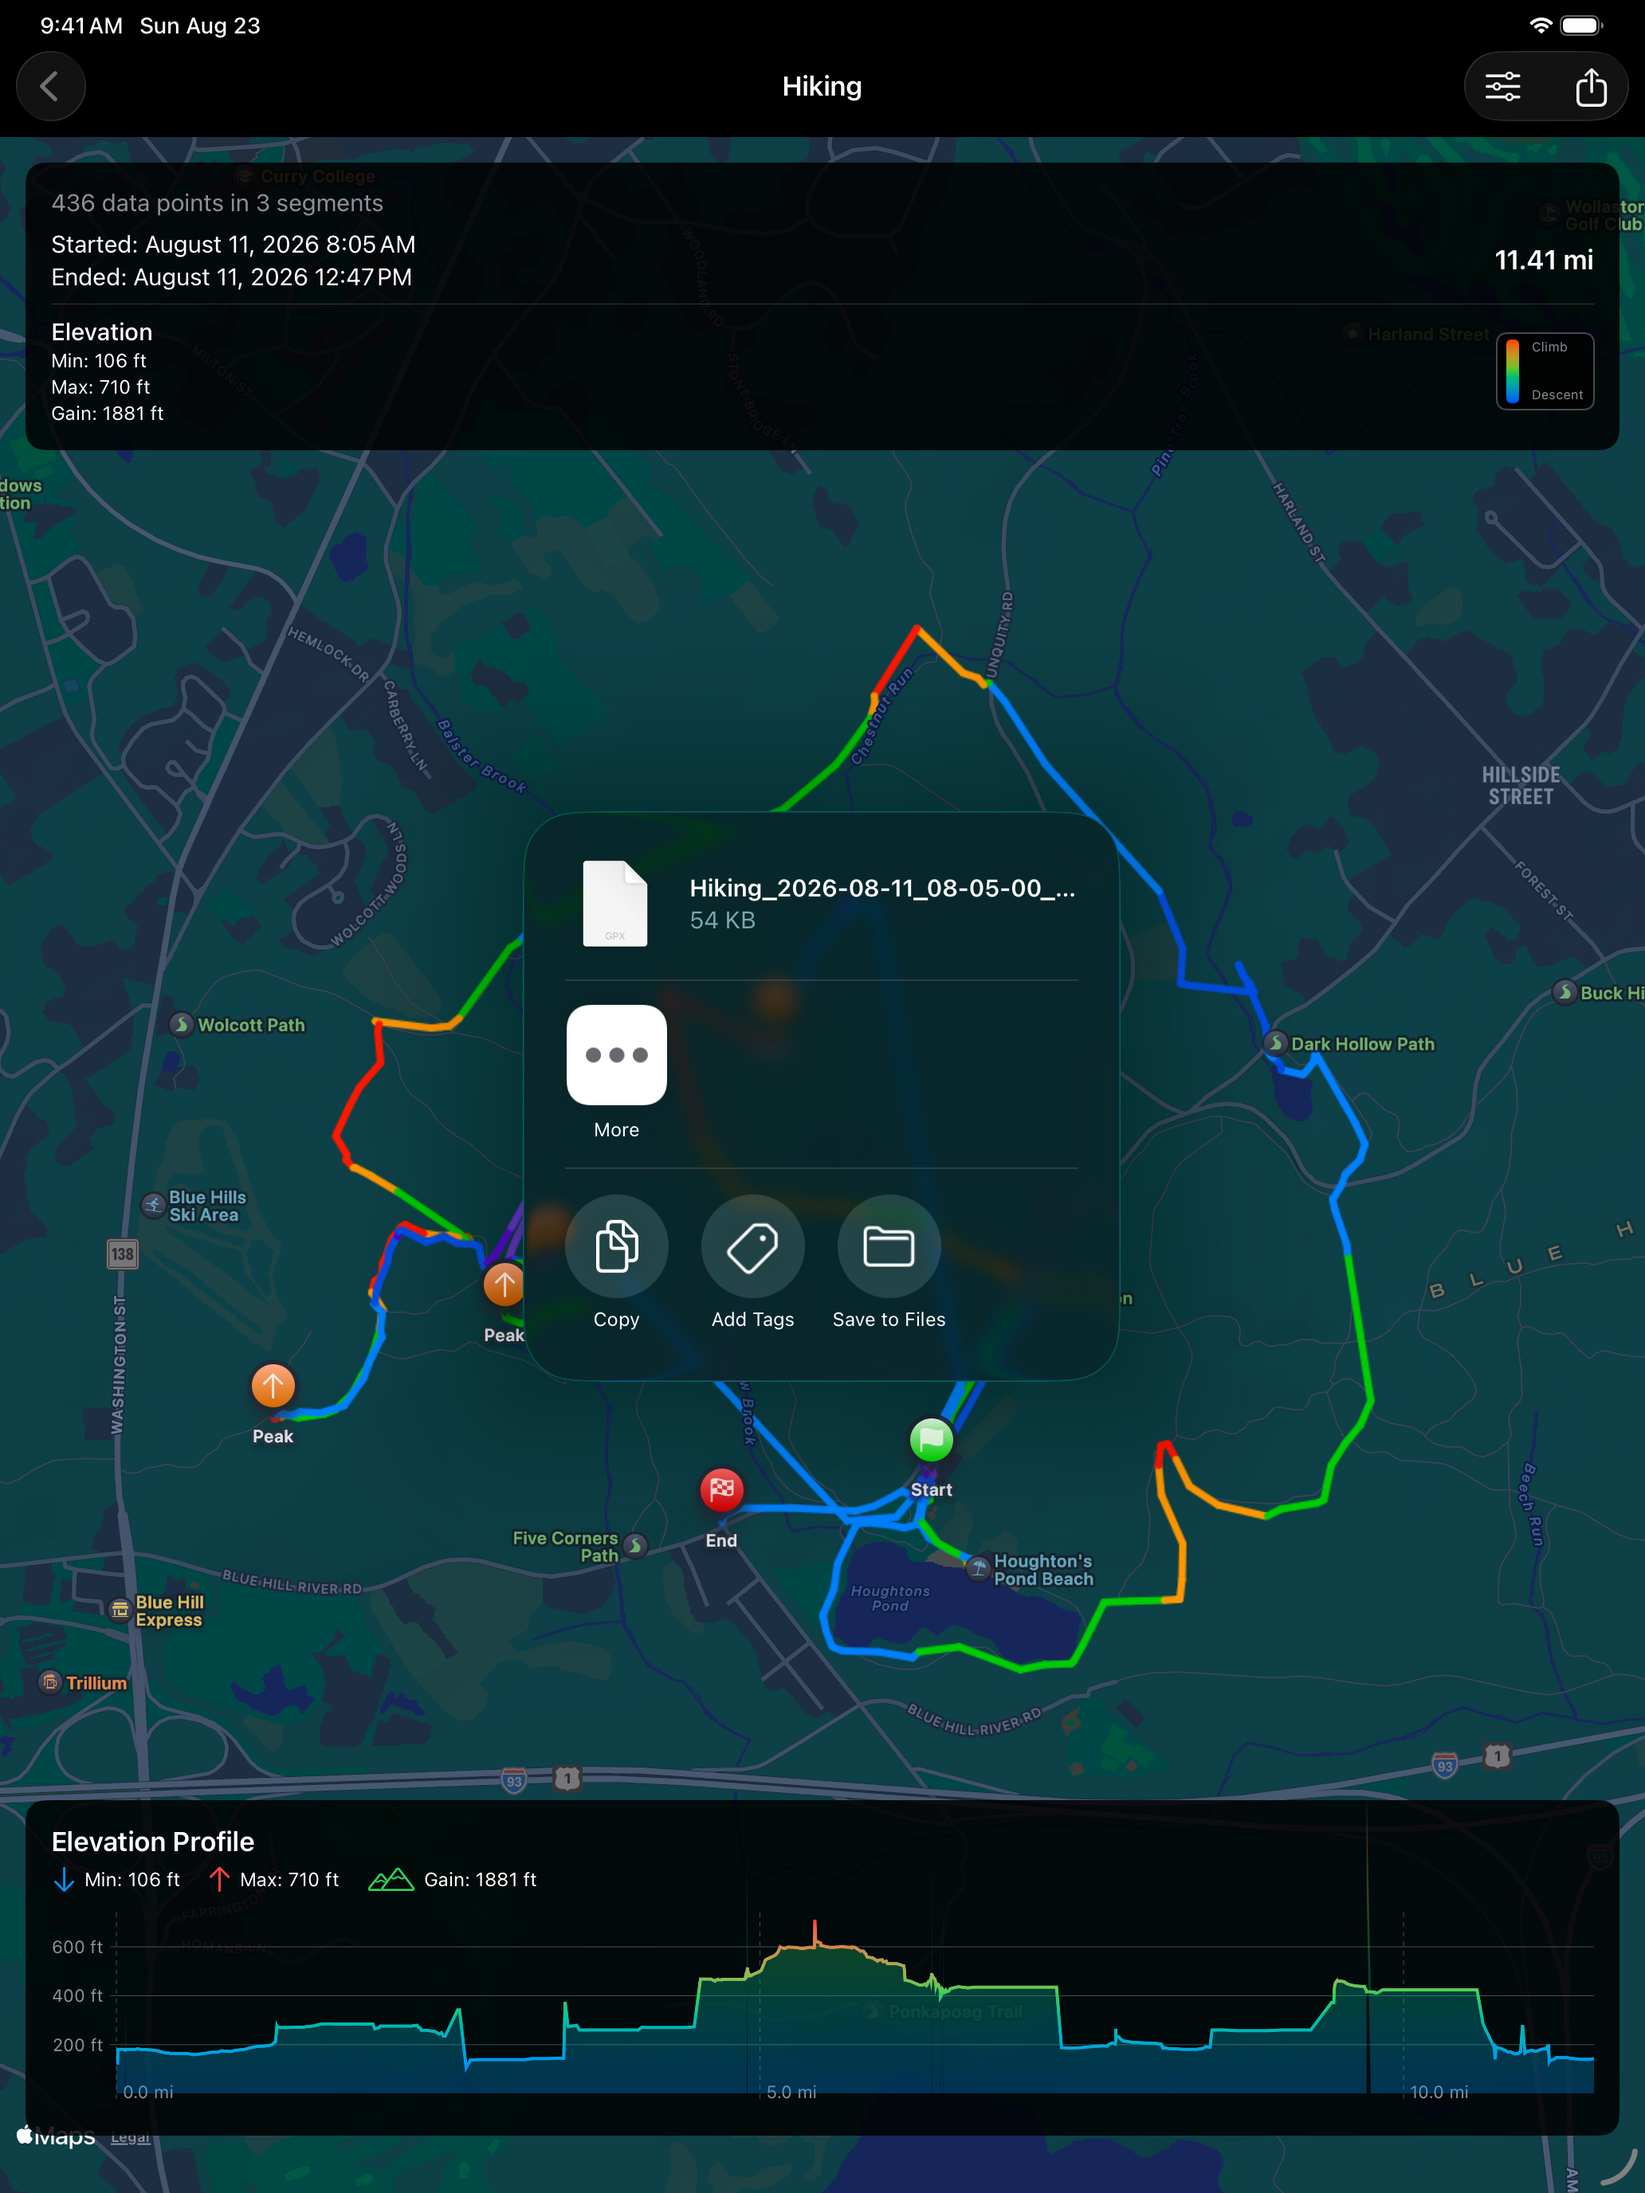
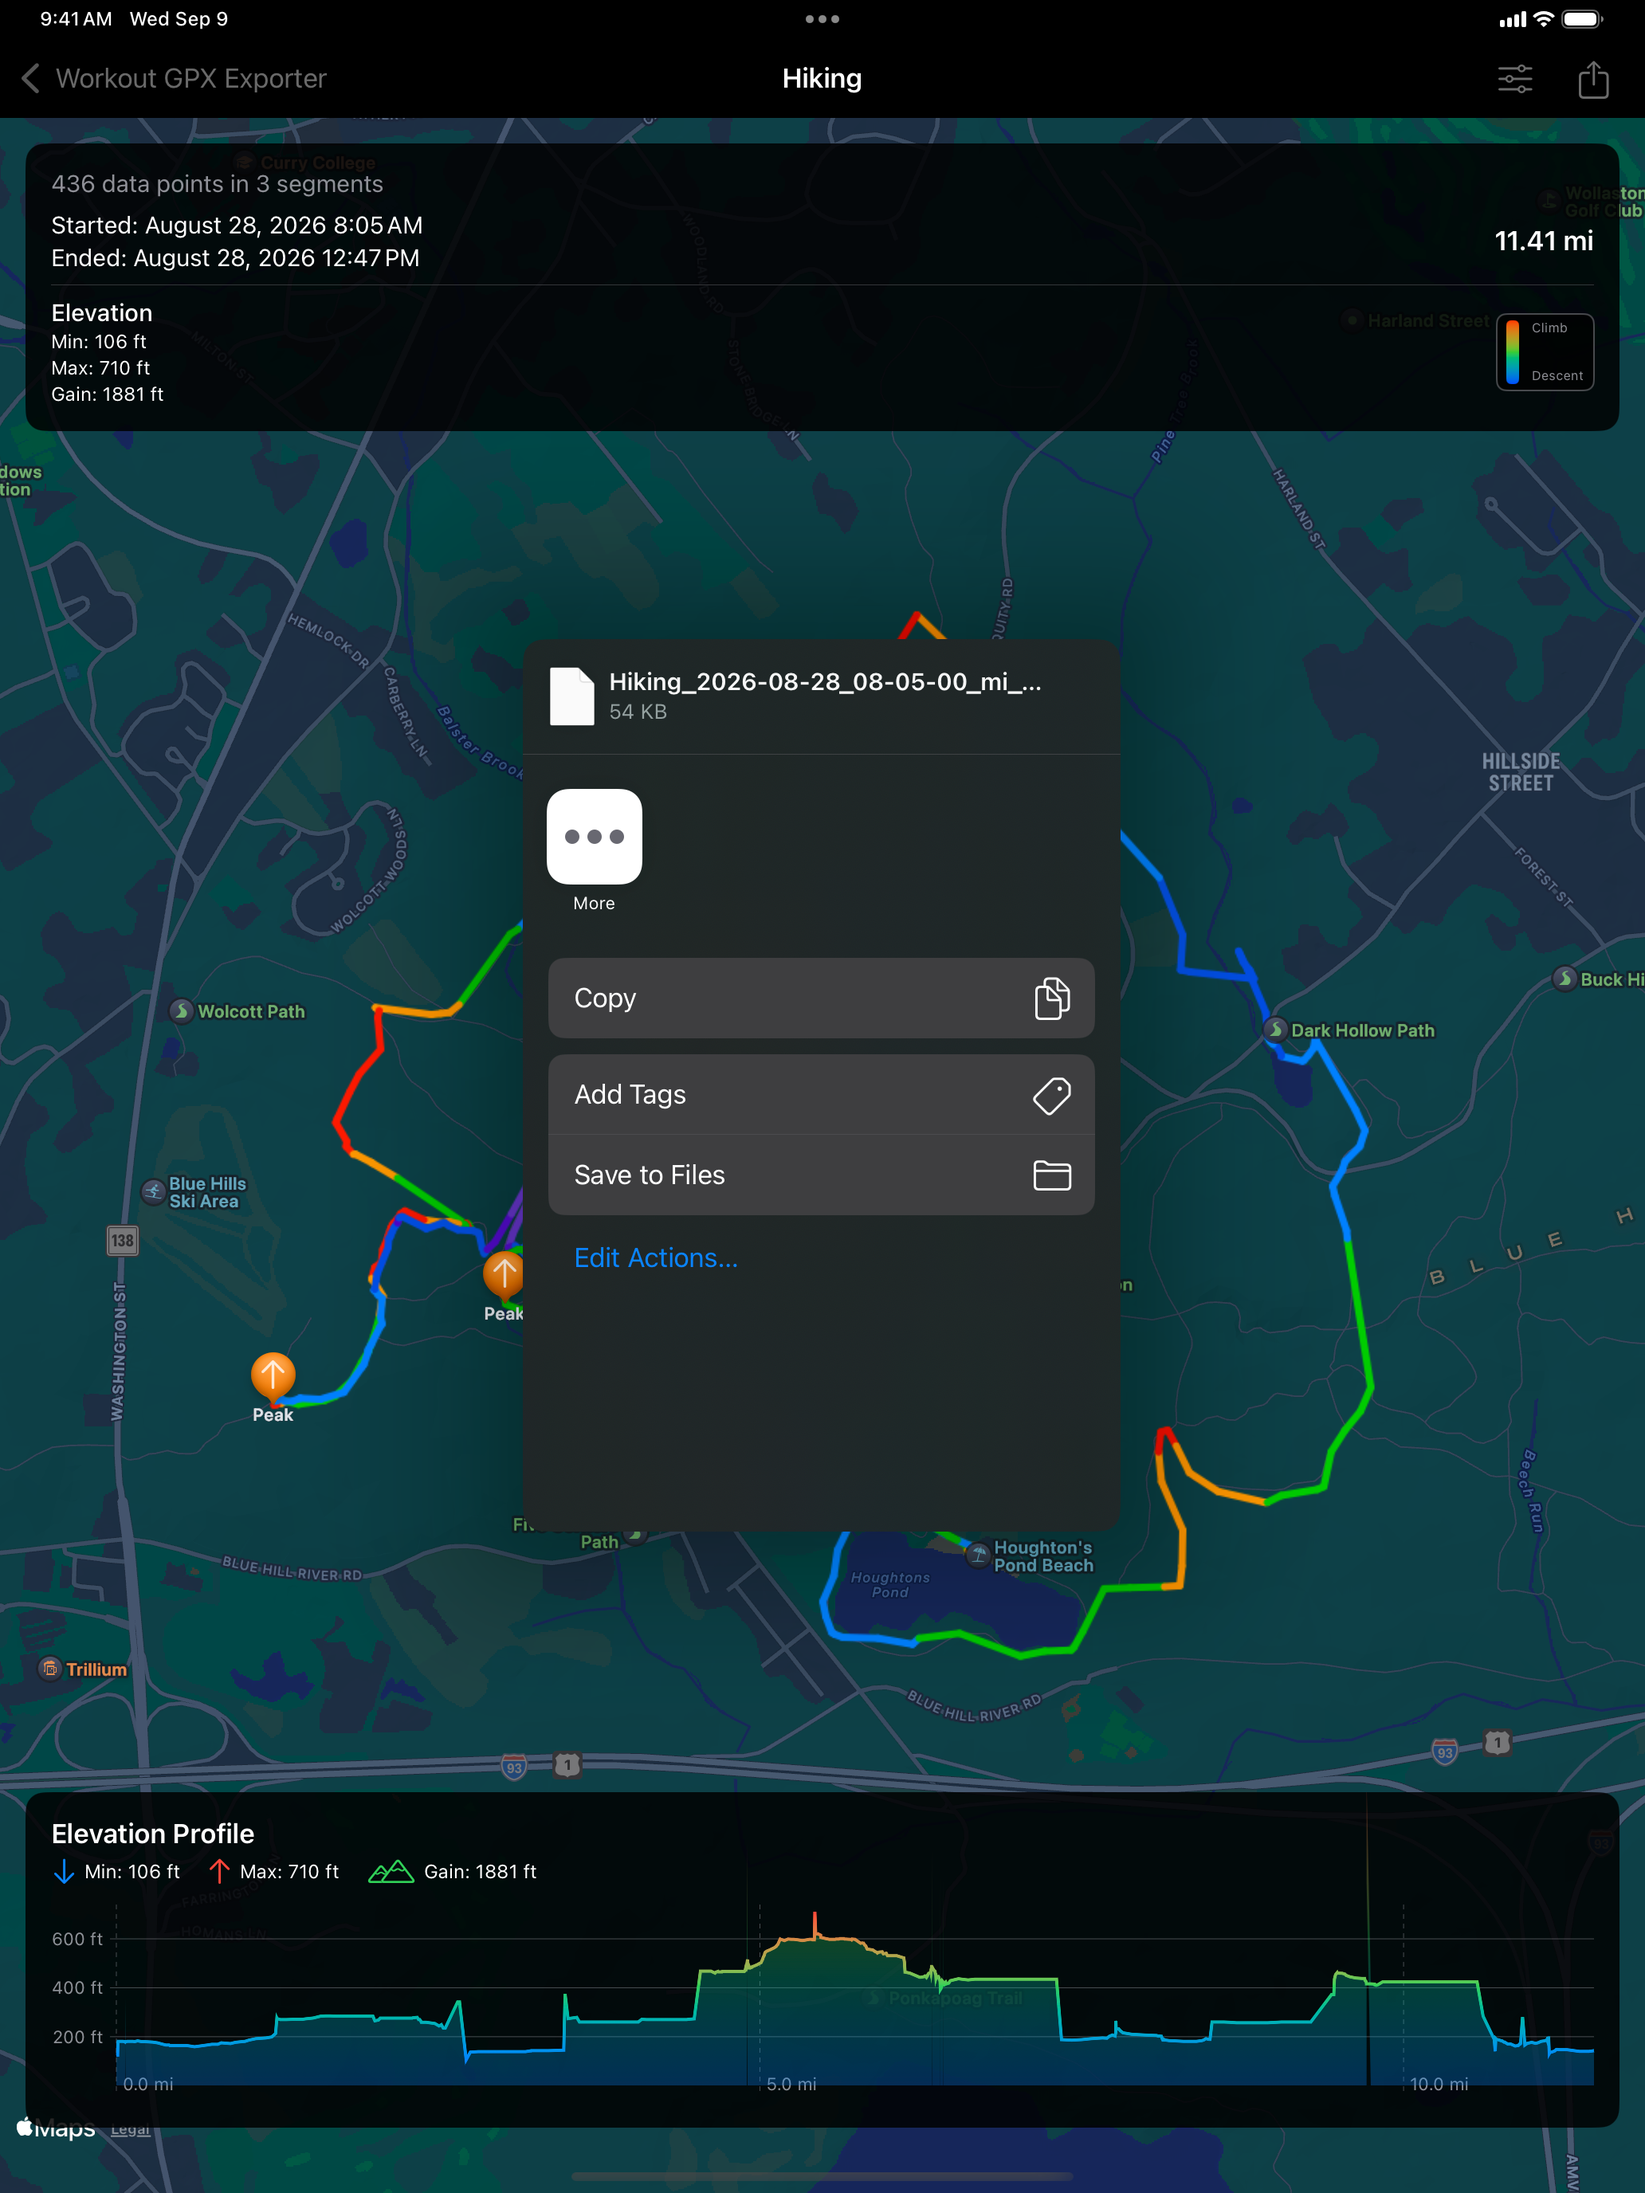
App Store screenshots for 1.5: multi-select boards, full recapture

diff --git a/AppStore/make-butterkit.py b/AppStore/make-butterkit.py
@@ -26,13 +26,14 @@ DEFAULT_OUT = os.path.expanduser("~/Library/Mobile Documents/com~apple~CloudDocs
 # title and subtitle instead of a caption. The App Store takes at most 10 per size.
 SCENES = [
     ("01-workouts", None),
+    ("09-select-all", "Select many, export once"),
     ("02-filters", "Filter by activity and date"),
     ("03-hike-effort", "See every climb and descent"),
     ("05b-run-scrub", "Scrub the elevation profile"),
     ("04-hike-gradient-satellite", "Color routes by elevation"),
     ("06-ride-satellite", "Satellite and hybrid maps"),
     ("08-settings", "Units, maps and sensor data"),
-    ("07-share", "Share GPX files anywhere"),
+    ("10-share-all", "One share sheet, every GPX"),
 ]
 
 HERO_TITLE = "WorkoutGPX"

diff --git a/AppStore/README.md b/AppStore/README.md
@@ -83,8 +83,9 @@ ImageFont.truetype("/System/Library/Fonts/Helvetica.ttc", 40, index=1).getlength
 
 ButterKit exports from the GUI (**Publish**) — there is no CLI. Export both size
 classes and upload in App Store Connect → the version → iPhone 6.9" / iPad 13".
-The App Store takes at most 10 screenshots per size; the share-sheet board is the
-first to drop if you want fewer.
+The App Store takes at most 10 screenshots per size; the package has nine boards
+(the multi-select board is second, the multi-file share sheet last). The single-file
+`07-share` scene is still captured but no longer on a board.
 
 The listing copy (description, promotional text, release notes) is in
 `listing-metadata.txt`.
